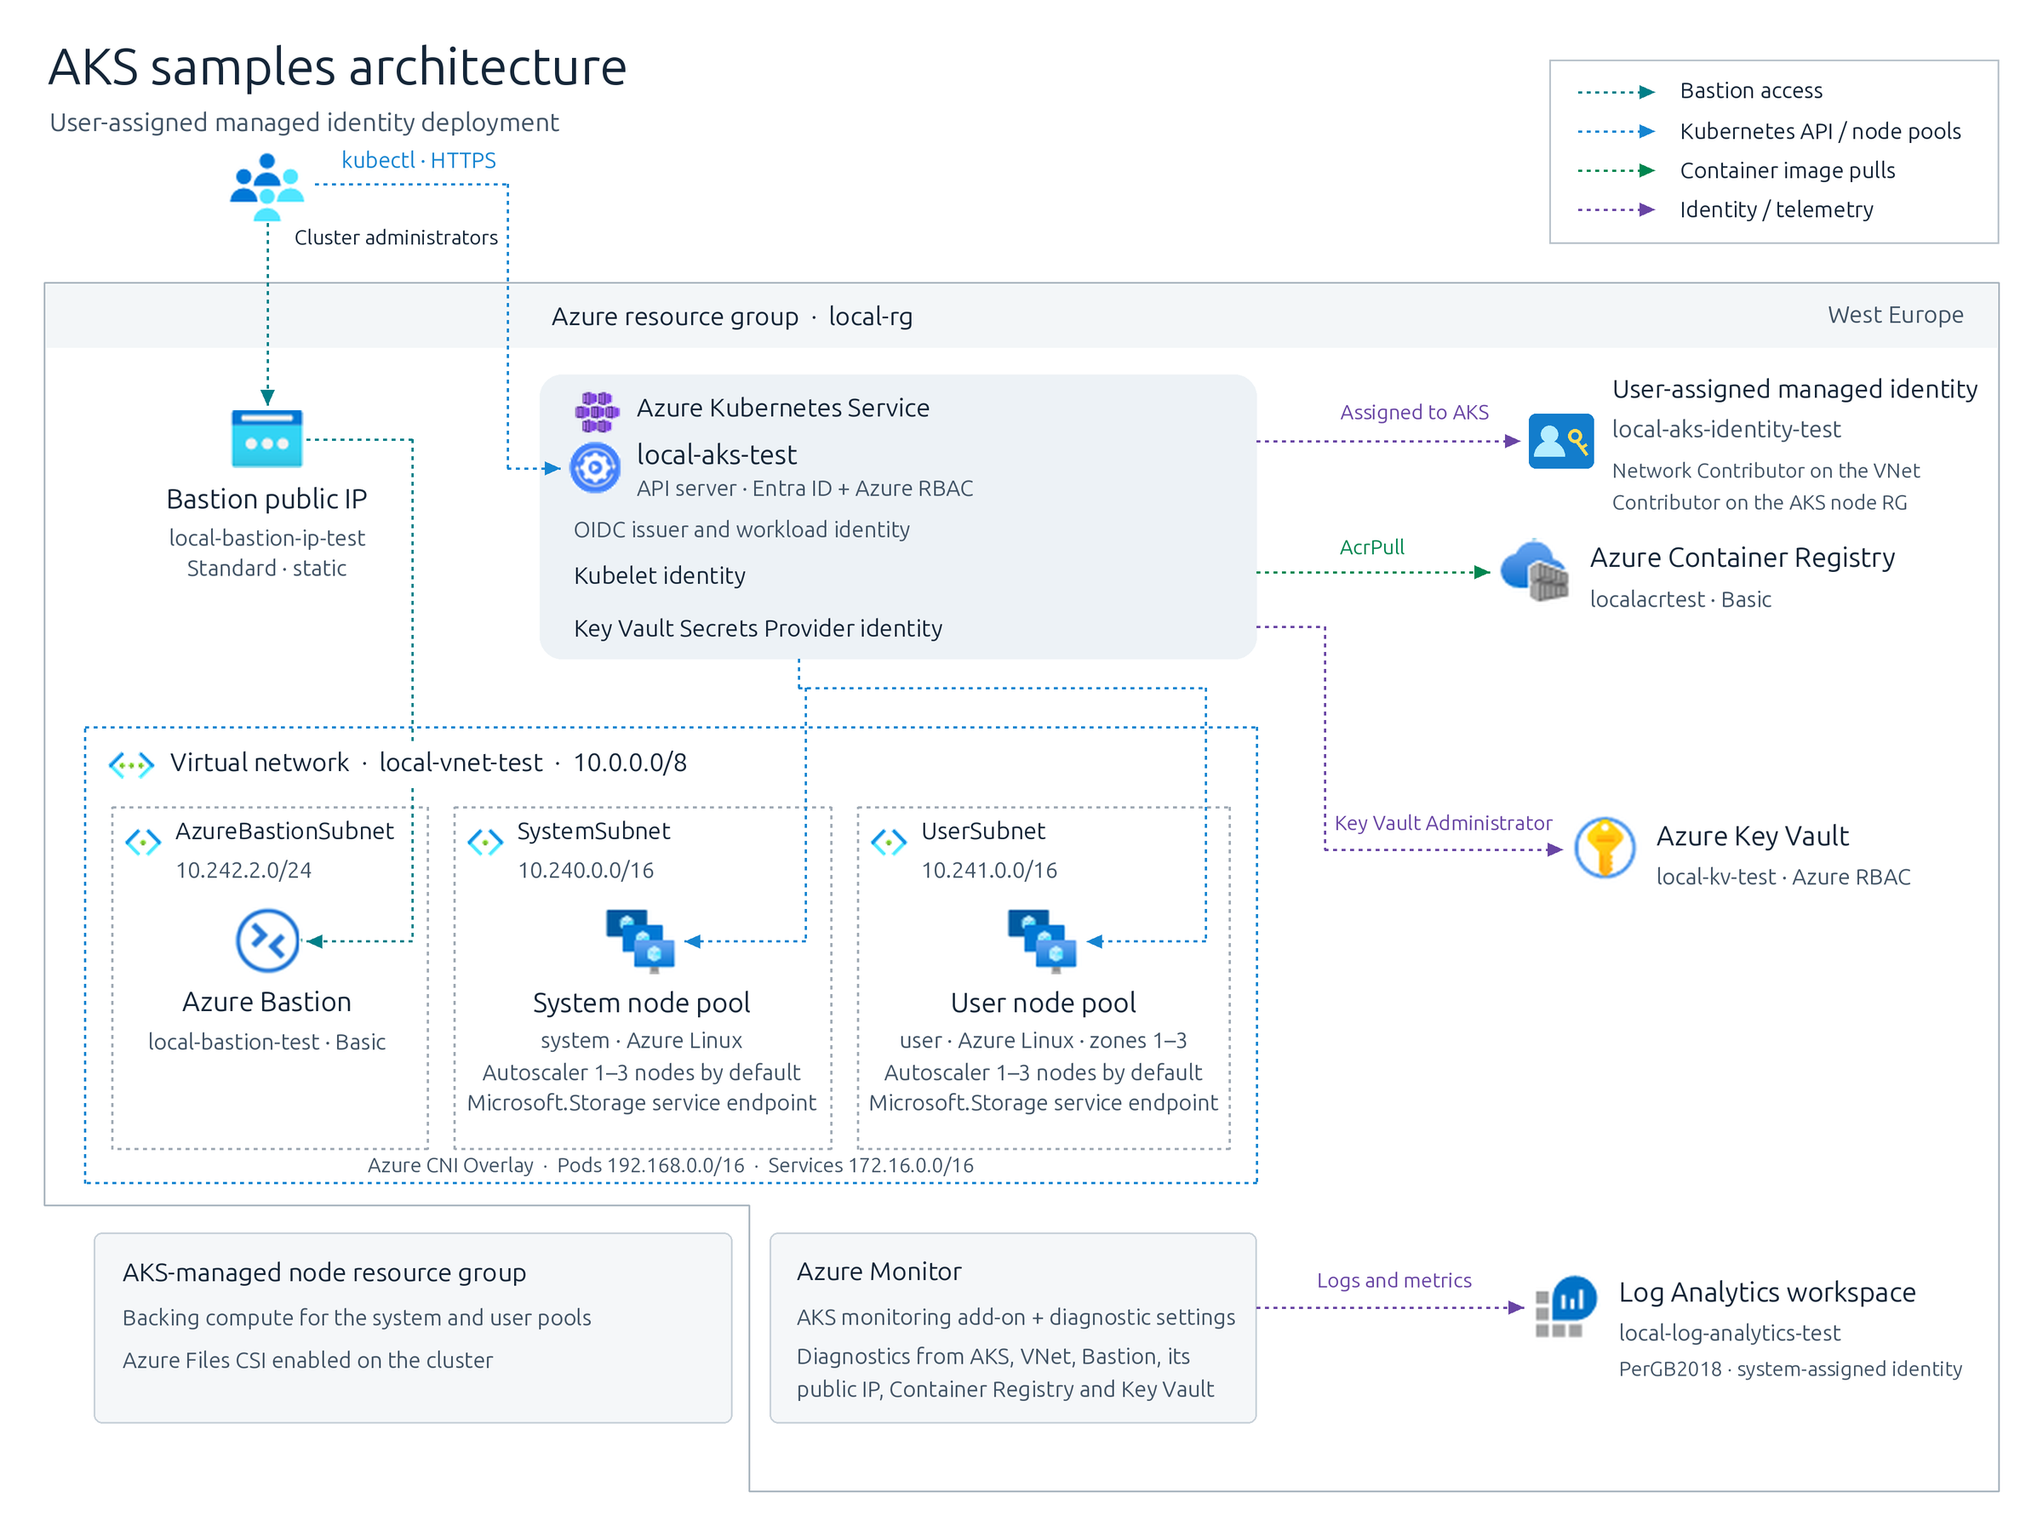
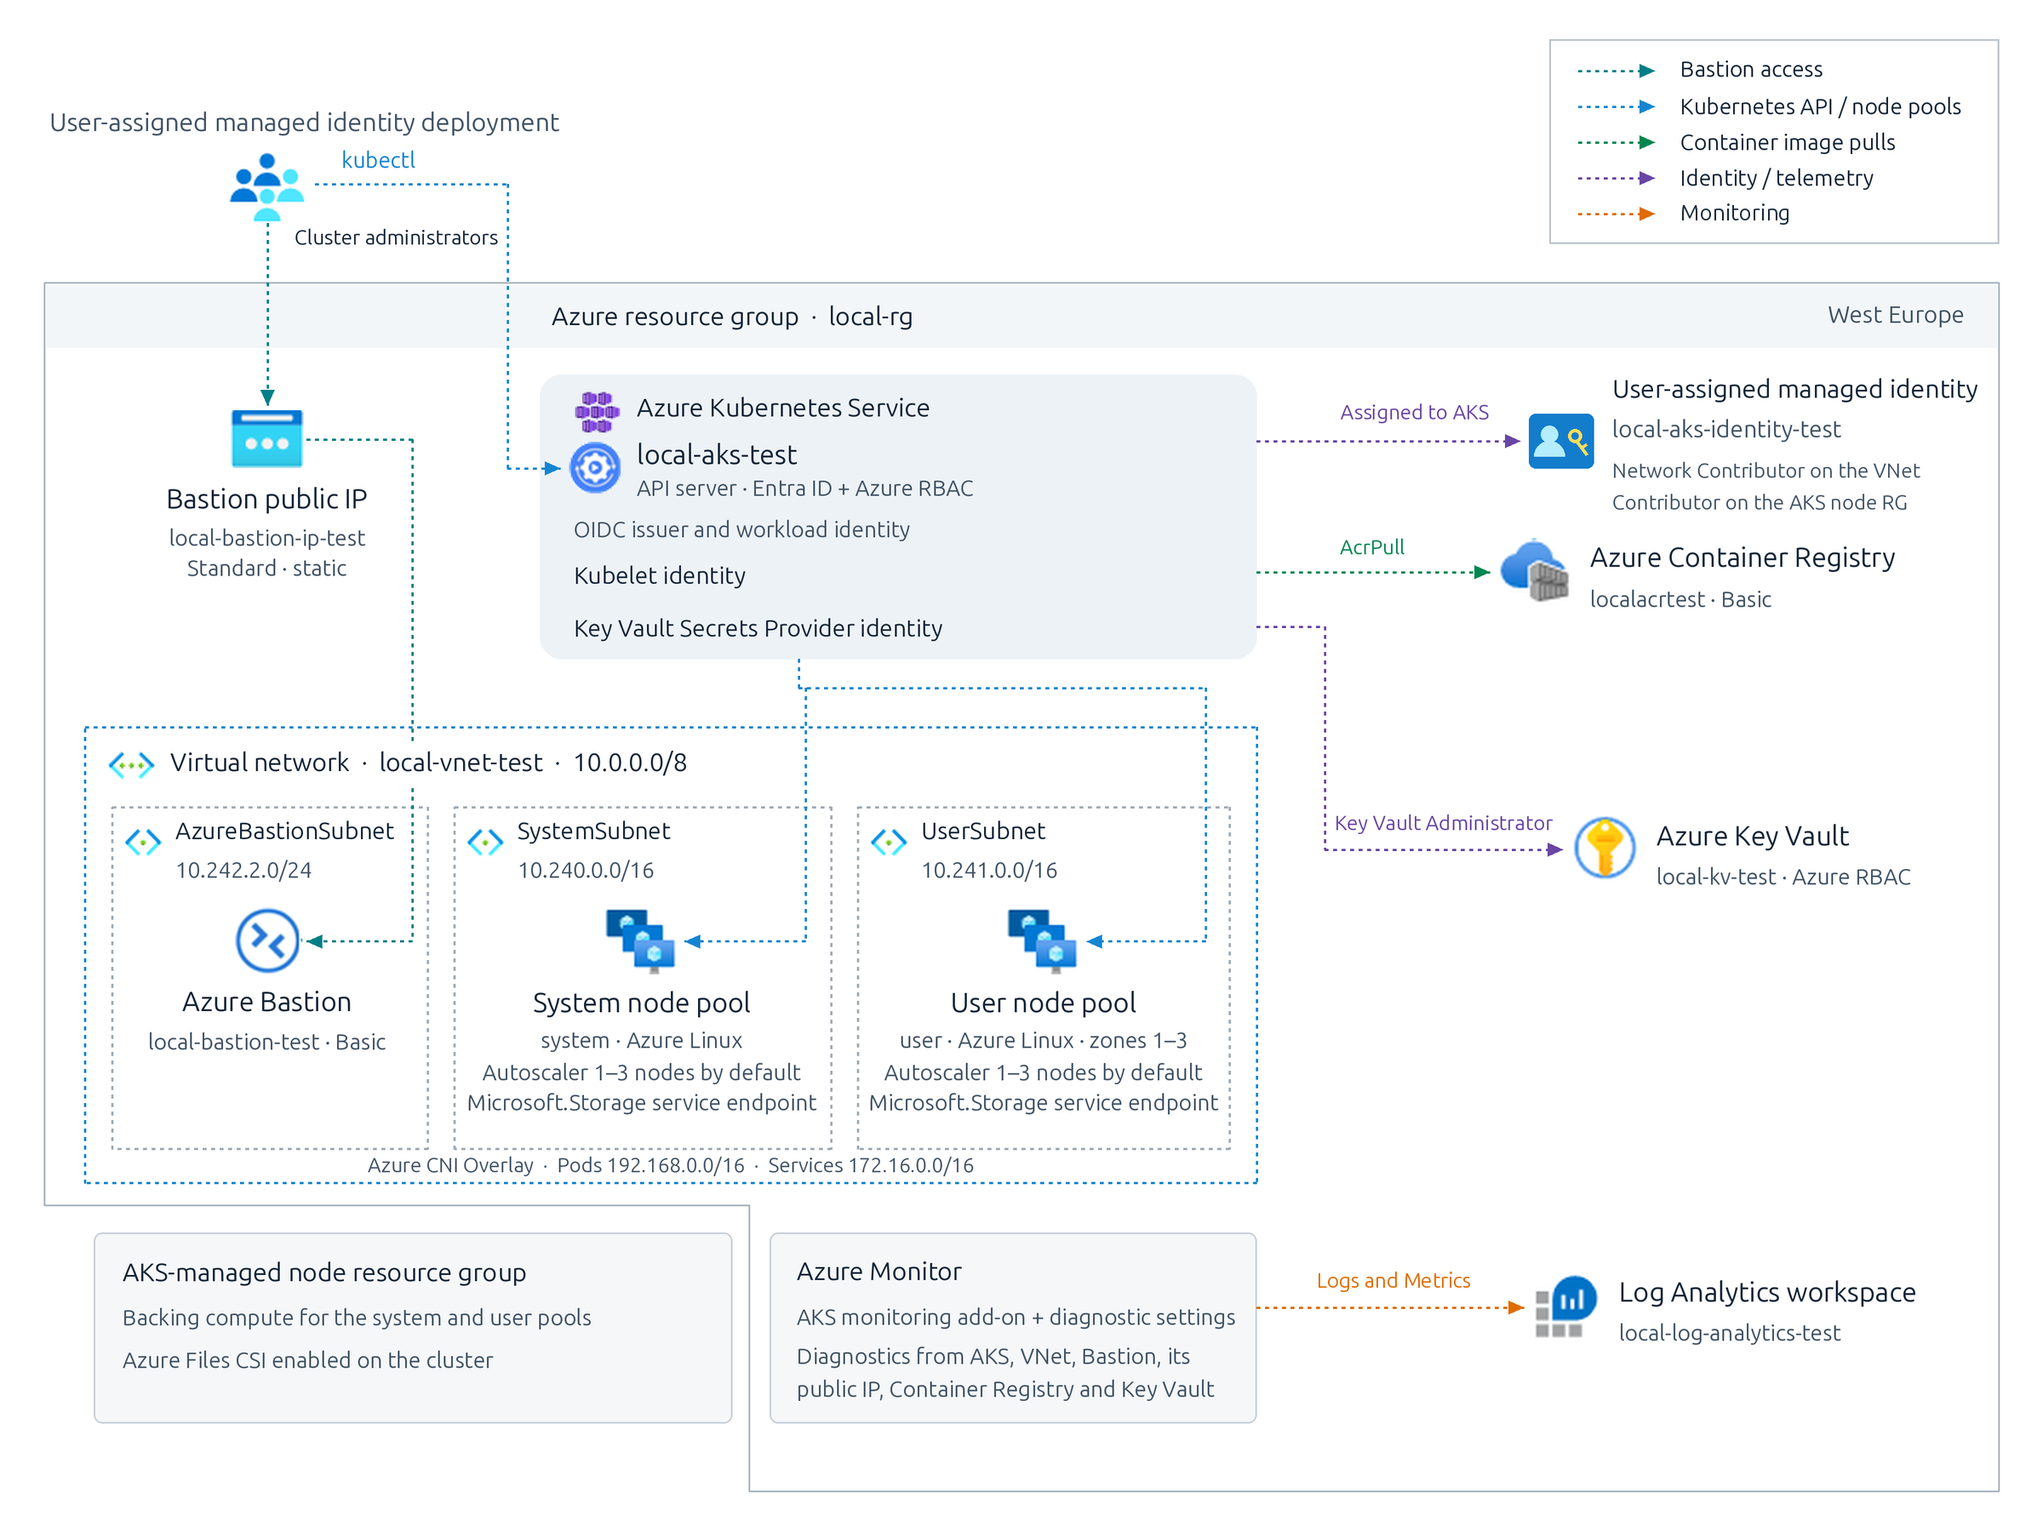
Edit the architecture diagram and reorder the scripts README
In images/aks-cluster-architecture.png:

- drop the title "AKS samples architecture";
- shorten the "kubectl · HTTPS" label to "kubectl";
- drop "PerGB2018 · system-assigned identity" under the Log Analytics
  workspace;
- add an orange "Monitoring" arrow to the legend, and draw the arrow to
  the workspace and its label, now "Logs and Metrics", in that orange.

In scripts/README.md, "Cluster scripts" becomes "Cluster Scripts" and the
Architecture section follows it. In scripts/README.md, bicep/README.md and
terraform/README.md, the Architecture section opens by naming the
deployments that create it: scripts/01-user-assigned-managed-identity.sh,
and the Bicep and Terraform deployments with a user-assigned identity.

Claude-Session: https://claude.ai/code/session_01FvNuJLRMVCJRJDgtLFqa5m

diff --git a/scripts/README.md b/scripts/README.md
@@ -2,11 +2,34 @@
 
 The scripts in this folder create the Azure Kubernetes Service (AKS) cluster that the [samples](../samples/) and [tutorials](../tutorials/) run on, and install optional add-ons into it. They work the same way against Azure and against the LocalStack for Azure emulator: see [Run against LocalStack](../README.md#run-against-localstack).
 
+## Cluster Scripts
+
+Every cluster script creates the `local-aks-test` cluster in the `local-rg` resource group, together with the `localacrtest` container registry that every sample pushes its image to, attached to the cluster with `--attach-acr`. The scripts are idempotent: an existing resource is kept, so a script can be re-run after a failure.
+
+| Script | Description | Features |
+| ------ | ----------- | -------- |
+| [01-basic-cluster.sh](01-basic-cluster.sh) | No questions: the smallest and fastest cluster to provision, for demos. To save time it turns off the Azure Files and Azure Disk CSI drivers and the CSI snapshot controller, so it runs every sample except [web-app-file-storage](../samples/web-app-file-storage/) and [web-app-in-cluster-postgresql](../samples/web-app-in-cluster-postgresql/). | System-assigned identity, Azure CNI Overlay with the Azure network policy, one node with the cluster autoscaler (1 to 3 nodes), Microsoft Entra Workload ID, Entra ID authentication with Azure RBAC (admin groups from `AAD_ADMIN_GROUP_OBJECT_IDS`), Advanced Container Networking Services (ACNS), container registry. Azure Files and Azure Disk CSI drivers and CSI snapshot controller off. |
+| [01-configurable-cluster.sh](01-configurable-cluster.sh) | Asks which optional features to provision. Every question has a default and an environment variable, so the script also runs unattended. Pressing Enter at every question provisions the same features as the two scripts below. | Each feature of the scripts below can be turned off, plus the choice of cluster identity and network policy. Optionally installs NGINX Gateway Fabric and cert-manager. |
+| [01-system-assigned-managed-identity.sh](01-system-assigned-managed-identity.sh) | The full, production-like cluster, with a system-assigned identity. The samples' CI uses it. | Custom virtual network with Azure Bastion, Key Vault with the CSI secrets provider, Container Insights, [diagnostic settings](#monitoring) on every resource, a user node pool across availability zones, cluster autoscaler, Workload ID, KEDA, managed Gateway API CRDs, Entra ID with Azure RBAC, ACNS, container registry. |
+| [01-user-assigned-managed-identity.sh](01-user-assigned-managed-identity.sh) | The same full cluster with a pre-created user-assigned identity, which also gets the Contributor role on the node resource group. | As above, with a user-assigned identity. |
+
+What the samples and tutorials need from the cluster:
+
+- Workload ID: [web-app-managed-identity](../samples/web-app-managed-identity/), [web-app-app-configuration](../samples/web-app-app-configuration/), the KEDA tutorials under [tutorials/keda](../tutorials/keda/) and [tutorials/key-vault-csi-driver/workload-identity](../tutorials/key-vault-csi-driver/workload-identity/). The samples create their own workload identities and federated credentials when they are deployed.
+- The Azure Files CSI driver: [web-app-file-storage](../samples/web-app-file-storage/), which mounts its file share through it.
+- The Azure Disk CSI driver: [web-app-in-cluster-postgresql](../samples/web-app-in-cluster-postgresql/), whose database volume uses the `managed-csi-premium` storage class.
+- The custom virtual network: [web-app-file-storage](../samples/web-app-file-storage/) in NFS mode only. Over SMB it works on any cluster with the Azure Files CSI driver.
+- The Key Vault and the CSI secrets provider: nothing needs them from a cluster script. [tutorials/key-vault-csi-driver](../tutorials/key-vault-csi-driver/) creates its own vault and enables the add-on when they are missing.
+- The Cilium network policy option (option 2 of the configurable script): the tutorials under [tutorials/policies/cilium](../tutorials/policies/cilium/). ACNS is always on, so they get Hubble and FQDN policies.
+- NGINX Gateway Fabric, cert-manager and a public DNS zone: [web-app-managed-identity](../samples/web-app-managed-identity/) when it is deployed with `DEPLOY_GATEWAY=true`.
+
 ## Architecture
+
+The following architecture is deployed by [01-user-assigned-managed-identity.sh](01-user-assigned-managed-identity.sh) and, with a user-assigned identity, by the [Bicep](../bicep/) and [Terraform](../terraform/) deployments.
 
 ![Architecture of the AKS cluster](../images/aks-cluster-architecture.png)
 
-The diagram shows the full cluster as [01-user-assigned-managed-identity.sh](01-user-assigned-managed-identity.sh) deploys it. The [Bicep](../bicep/) and [Terraform](../terraform/) deployments create the same resources. With a system-assigned identity, Azure creates the cluster identity (item 6) together with the cluster. The architecture is composed of the following Azure resources:
+With a system-assigned identity, Azure creates the cluster identity (item 6) together with the cluster. The architecture is composed of the following Azure resources:
 
 1. [Azure Resource Group](https://learn.microsoft.com/azure/azure-resource-manager/management/manage-resource-groups-cli) `<prefix>-rg`: A logical container scoping the resources below. AKS creates a second one for the cluster's infrastructure, the node resource group (item 10).
 2. [Azure Key Vault](https://learn.microsoft.com/azure/key-vault/general/overview) `<prefix>-kv-<suffix>` with the [Azure RBAC permission model](https://learn.microsoft.com/azure/key-vault/general/rbac-guide): A vault whose secrets pods can mount as files through the [Azure Key Vault Secrets Provider](https://learn.microsoft.com/azure/aks/csi-secrets-store-driver) add-on. The add-on's identity (item 10) holds [Key Vault Administrator](https://learn.microsoft.com/azure/role-based-access-control/built-in-roles/security#key-vault-administrator) on it. No sample needs it: [tutorials/key-vault-csi-driver](../tutorials/key-vault-csi-driver/) creates its own vault.
@@ -30,27 +53,6 @@ The diagram shows the full cluster as [01-user-assigned-managed-identity.sh](01-
 11. [Data collection rule](https://learn.microsoft.com/azure/azure-monitor/essentials/data-collection-rule-overview) `MSCI-<location>-<prefix>-aks-<suffix>`, in the resource group, with its association to the cluster: Tells the Container Insights agent on the nodes what to collect, and sends the data to the workspace (item 3). The monitoring add-on creates it for the scripts; the Bicep and Terraform templates define it themselves.
 
 Every deployment ends with `az aks get-credentials`, which merges the cluster into your kubeconfig. Each sample then pushes its image to the registry and deploys into its own namespace: the nodes pull the image through the kubelet identity, the samples that use Workload ID reach Azure services without secrets, and the logs of every pod land in the `ContainerLogV2` table of the workspace, where the KQL queries in the sample READMEs read them.
-
-## Cluster scripts
-
-Every cluster script creates the `local-aks-test` cluster in the `local-rg` resource group, together with the `localacrtest` container registry that every sample pushes its image to, attached to the cluster with `--attach-acr`. The scripts are idempotent: an existing resource is kept, so a script can be re-run after a failure.
-
-| Script | Description | Features |
-| ------ | ----------- | -------- |
-| [01-basic-cluster.sh](01-basic-cluster.sh) | No questions: the smallest and fastest cluster to provision, for demos. To save time it turns off the Azure Files and Azure Disk CSI drivers and the CSI snapshot controller, so it runs every sample except [web-app-file-storage](../samples/web-app-file-storage/) and [web-app-in-cluster-postgresql](../samples/web-app-in-cluster-postgresql/). | System-assigned identity, Azure CNI Overlay with the Azure network policy, one node with the cluster autoscaler (1 to 3 nodes), Microsoft Entra Workload ID, Entra ID authentication with Azure RBAC (admin groups from `AAD_ADMIN_GROUP_OBJECT_IDS`), Advanced Container Networking Services (ACNS), container registry. Azure Files and Azure Disk CSI drivers and CSI snapshot controller off. |
-| [01-configurable-cluster.sh](01-configurable-cluster.sh) | Asks which optional features to provision. Every question has a default and an environment variable, so the script also runs unattended. Pressing Enter at every question provisions the same features as the two scripts below. | Each feature of the scripts below can be turned off, plus the choice of cluster identity and network policy. Optionally installs NGINX Gateway Fabric and cert-manager. |
-| [01-system-assigned-managed-identity.sh](01-system-assigned-managed-identity.sh) | The full, production-like cluster, with a system-assigned identity. The samples' CI uses it. | Custom virtual network with Azure Bastion, Key Vault with the CSI secrets provider, Container Insights, [diagnostic settings](#monitoring) on every resource, a user node pool across availability zones, cluster autoscaler, Workload ID, KEDA, managed Gateway API CRDs, Entra ID with Azure RBAC, ACNS, container registry. |
-| [01-user-assigned-managed-identity.sh](01-user-assigned-managed-identity.sh) | The same full cluster with a pre-created user-assigned identity, which also gets the Contributor role on the node resource group. | As above, with a user-assigned identity. |
-
-What the samples and tutorials need from the cluster:
-
-- Workload ID: [web-app-managed-identity](../samples/web-app-managed-identity/), [web-app-app-configuration](../samples/web-app-app-configuration/), the KEDA tutorials under [tutorials/keda](../tutorials/keda/) and [tutorials/key-vault-csi-driver/workload-identity](../tutorials/key-vault-csi-driver/workload-identity/). The samples create their own workload identities and federated credentials when they are deployed.
-- The Azure Files CSI driver: [web-app-file-storage](../samples/web-app-file-storage/), which mounts its file share through it.
-- The Azure Disk CSI driver: [web-app-in-cluster-postgresql](../samples/web-app-in-cluster-postgresql/), whose database volume uses the `managed-csi-premium` storage class.
-- The custom virtual network: [web-app-file-storage](../samples/web-app-file-storage/) in NFS mode only. Over SMB it works on any cluster with the Azure Files CSI driver.
-- The Key Vault and the CSI secrets provider: nothing needs them from a cluster script. [tutorials/key-vault-csi-driver](../tutorials/key-vault-csi-driver/) creates its own vault and enables the add-on when they are missing.
-- The Cilium network policy option (option 2 of the configurable script): the tutorials under [tutorials/policies/cilium](../tutorials/policies/cilium/). ACNS is always on, so they get Hubble and FQDN policies.
-- NGINX Gateway Fabric, cert-manager and a public DNS zone: [web-app-managed-identity](../samples/web-app-managed-identity/) when it is deployed with `DEPLOY_GATEWAY=true`.
 
 ## Configurable script
 

diff --git a/bicep/README.md b/bicep/README.md
@@ -4,9 +4,11 @@ This directory contains the Bicep template and a deployment script that create t
 
 ## Architecture
 
+The following architecture is deployed by [scripts/01-user-assigned-managed-identity.sh](../scripts/01-user-assigned-managed-identity.sh) and, with a user-assigned identity, by this Bicep deployment and the [Terraform](../terraform/) deployment.
+
 ![Architecture of the AKS cluster](../images/aks-cluster-architecture.png)
 
-The diagram shows the cluster with a user-assigned identity. With a system-assigned identity, the default, Azure creates the cluster identity (item 6) together with the cluster. The architecture is composed of the following Azure resources:
+With a system-assigned identity, the default, Azure creates the cluster identity (item 6) together with the cluster. The architecture is composed of the following Azure resources:
 
 1. [Azure Resource Group](https://learn.microsoft.com/azure/azure-resource-manager/management/manage-resource-groups-cli) `<prefix>-rg`: A logical container scoping the resources below. AKS creates a second one for the cluster's infrastructure, the node resource group (item 10).
 2. [Azure Key Vault](https://learn.microsoft.com/azure/key-vault/general/overview) `<prefix>-kv-<suffix>` with the [Azure RBAC permission model](https://learn.microsoft.com/azure/key-vault/general/rbac-guide): A vault whose secrets pods can mount as files through the [Azure Key Vault Secrets Provider](https://learn.microsoft.com/azure/aks/csi-secrets-store-driver) add-on. The add-on's identity (item 10) holds [Key Vault Administrator](https://learn.microsoft.com/azure/role-based-access-control/built-in-roles/security#key-vault-administrator) on it. No sample needs it: [tutorials/key-vault-csi-driver](../tutorials/key-vault-csi-driver/) creates its own vault.

diff --git a/terraform/README.md b/terraform/README.md
@@ -4,9 +4,11 @@ This directory contains Terraform modules and a deployment script that create th
 
 ## Architecture
 
+The following architecture is deployed by [scripts/01-user-assigned-managed-identity.sh](../scripts/01-user-assigned-managed-identity.sh) and, with a user-assigned identity, by the [Bicep](../bicep/) deployment and this Terraform deployment.
+
 ![Architecture of the AKS cluster](../images/aks-cluster-architecture.png)
 
-The diagram shows the cluster with a user-assigned identity. With a system-assigned identity, the default, Azure creates the cluster identity (item 6) together with the cluster. The architecture is composed of the following Azure resources:
+With a system-assigned identity, the default, Azure creates the cluster identity (item 6) together with the cluster. The architecture is composed of the following Azure resources:
 
 1. [Azure Resource Group](https://learn.microsoft.com/azure/azure-resource-manager/management/manage-resource-groups-cli) `<prefix>-rg`: A logical container scoping the resources below. AKS creates a second one for the cluster's infrastructure, the node resource group (item 10).
 2. [Azure Key Vault](https://learn.microsoft.com/azure/key-vault/general/overview) `<prefix>-kv-<suffix>` with the [Azure RBAC permission model](https://learn.microsoft.com/azure/key-vault/general/rbac-guide): A vault whose secrets pods can mount as files through the [Azure Key Vault Secrets Provider](https://learn.microsoft.com/azure/aks/csi-secrets-store-driver) add-on. The add-on's identity (item 10) holds [Key Vault Administrator](https://learn.microsoft.com/azure/role-based-access-control/built-in-roles/security#key-vault-administrator) on it. No sample needs it: [tutorials/key-vault-csi-driver](../tutorials/key-vault-csi-driver/) creates its own vault.
